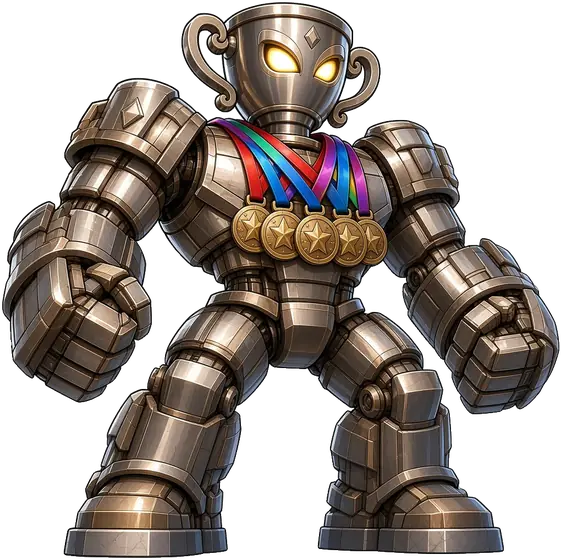
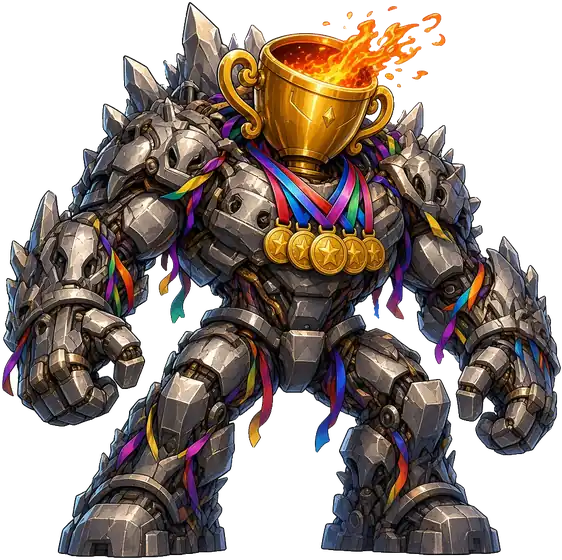
epic fighter evolutions + fixed golem/microwave/boss/angel/toilet art

diff --git a/game.js b/game.js
@@ -143,9 +143,9 @@ function save(){try{localStorage.setItem(SAVE_KEY,JSON.stringify(S))}catch(e){}}
 // ---------- LEVELS / EVOLUTION ----------
 // XP per fighter; LV1-10. LV5 = Stage 2 (EVOLVED), LV10 = Stage 3 (ASCENDED). Small stat boosts per level.
 const LV_XP=[0,100,240,420,650,930,1260,1640,2080,2580],MAXLV=10;
-const EVO_LIST=["angel", "avocado", "banana", "boss", "broc", "cactus", "cat", "cheese", "cone", "corgi", "cup", "dino", "dragon", "duck", "duckgod", "frog", "golem", "hamster", "hippo", "jelly", "jester", "kraken", "lamp", "microwave", "onion", "owl", "phoenix", "pigeon", "potato", "shark", "shrimp", "sloth", "sock", "toaster", "toilet", "unicorn"];
+const EVO_LIST=["angel", "avocado", "banana", "boss", "broc", "cactus", "cat", "cheese", "cloud", "cone", "corgi", "croissant", "cup", "dino", "dragon", "duck", "duckgod", "frog", "gnome", "golem", "goose", "hamster", "hippo", "jelly", "jester", "kraken", "lamp", "microwave", "monk", "nugget", "onion", "owl", "phoenix", "pigeon", "potato", "shark", "shrimp", "sloth", "snail", "sock", "toaster", "toilet", "unicorn", "vacuum"];
 const EVO_ART=new Set(EVO_LIST);
-const AURA={"shark": ["#2ec5ff", "circle", ""], "cup": ["#ff7a1a", "circle", ""], "duck": ["#3dff8a", "g", "💵"], "toaster": ["#ff3b1a", "g", "🔥"], "cactus": ["#e6c27a", "circle", ""], "banana": ["#ffe03d", "g", "🍌"], "broc": ["#6ae04a", "g", "🍃"], "boss": ["#c13bff", "g", "👁"], "toilet": ["#9fe6ff", "g", "💧"], "pigeon": ["#ffe066", "g", "🪶"], "frog": ["#7dff5a", "g", "♪"], "potato": ["#ffb347", "g", "🍟"], "cat": ["#a0b4ff", "g", "z"], "onion": ["#5ab0ff", "g", "💧"], "hamster": ["#ffb347", "spark", ""], "microwave": ["#9cff3d", "g", "🍿"], "sock": ["#ff8a96", "circle", ""], "avocado": ["#7bc043", "g", "🍃"], "cheese": ["#ffcc33", "g", "💧"], "cone": ["#ff7a1a", "spark", ""], "dino": ["#ff5a00", "g", "🔥"], "jelly": ["#ff3355", "g", "🍬"], "sloth": ["#2ec5ff", "g", "♪"], "lamp": ["#ff4fb8", "circle", ""], "gnome": ["#7fe8ff", "spark", ""], "nugget": ["#ffc400", "g", "🔥"], "croissant": ["#2b5fd9", "circle", ""], "monk": ["#ffe066", "circle", ""], "goose": ["#ff2a2a", "g", "🪶"], "vacuum": ["#c070ff", "star", ""], "snail": ["#4caf50", "star", ""], "cloud": ["#ffe066", "spark", ""], "dragon": ["#9cff3d", "g", "🍃"], "hippo": ["#e6c27a", "circle", ""], "phoenix": ["#ff8a00", "g", "🔥"], "unicorn": ["#d6b8ff", "star", ""], "shrimp": ["#ff9a3c", "circle", ""], "kraken": ["#1abc9c", "circle", ""], "owl": ["#6a3df0", "star", ""], "golem": ["#ffcc00", "sq", ""], "duckgod": ["#c38bff", "star", ""], "angel": ["#fff2a8", "g", "🪶"], "jester": ["#b44dff", "g", "🃏"], "corgi": ["#ffb300", "spark", ""]};
+const AURA={"shark": ["#2ec5ff", "circle", ""], "cup": ["#ff7a1a", "circle", ""], "duck": ["#3dff8a", "g", "💵"], "toaster": ["#ff3b1a", "g", "🔥"], "cactus": ["#e6c27a", "circle", ""], "banana": ["#ffe03d", "g", "🍌"], "broc": ["#6ae04a", "g", "🍃"], "boss": ["#c13bff", "g", "👁"], "toilet": ["#9fe6ff", "g", "💧"], "pigeon": ["#ffe066", "g", "🪶"], "frog": ["#7dff5a", "g", "♪"], "potato": ["#ffb347", "g", "🍟"], "cat": ["#a0b4ff", "g", "z"], "onion": ["#5ab0ff", "g", "💧"], "hamster": ["#ffb347", "spark", ""], "microwave": ["#9cff3d", "g", "🍿"], "sock": ["#ff8a96", "circle", ""], "avocado": ["#7bc043", "g", "🍃"], "cheese": ["#ffcc33", "g", "💧"], "cone": ["#ff7a1a", "spark", ""], "dino": ["#ff5a00", "g", "🔥"], "jelly": ["#ff3355", "g", "🍬"], "sloth": ["#2ec5ff", "g", "♪"], "lamp": ["#ff4fb8", "circle", ""], "gnome": ["#7fe8ff", "spark", ""], "nugget": ["#ff4a2a", "g", "🍗"], "croissant": ["#2b8fd9", "g", "🌊"], "monk": ["#3dffd0", "g", "🍄"], "goose": ["#ff2a2a", "g", "🪶"], "vacuum": ["#c070ff", "star", ""], "snail": ["#3a5cff", "g", "☄"], "cloud": ["#7fd0ff", "g", "⚡"], "dragon": ["#9cff3d", "g", "🍃"], "hippo": ["#e6c27a", "circle", ""], "phoenix": ["#ff8a00", "g", "🔥"], "unicorn": ["#d6b8ff", "star", ""], "shrimp": ["#ff9a3c", "circle", ""], "kraken": ["#1abc9c", "circle", ""], "owl": ["#6a3df0", "star", ""], "golem": ["#ffcc00", "sq", ""], "duckgod": ["#c38bff", "star", ""], "angel": ["#bfe6ff", "g", "🍞"], "jester": ["#b44dff", "g", "🃏"], "corgi": ["#ffb300", "spark", ""]};
 const auraCol=id=>(AURA[id]||['#ffd23d'])[0];
 if(!S.xp||typeof S.xp!=='object')S.xp={};
 const xpOf=id=>S.xp[id]||0;
